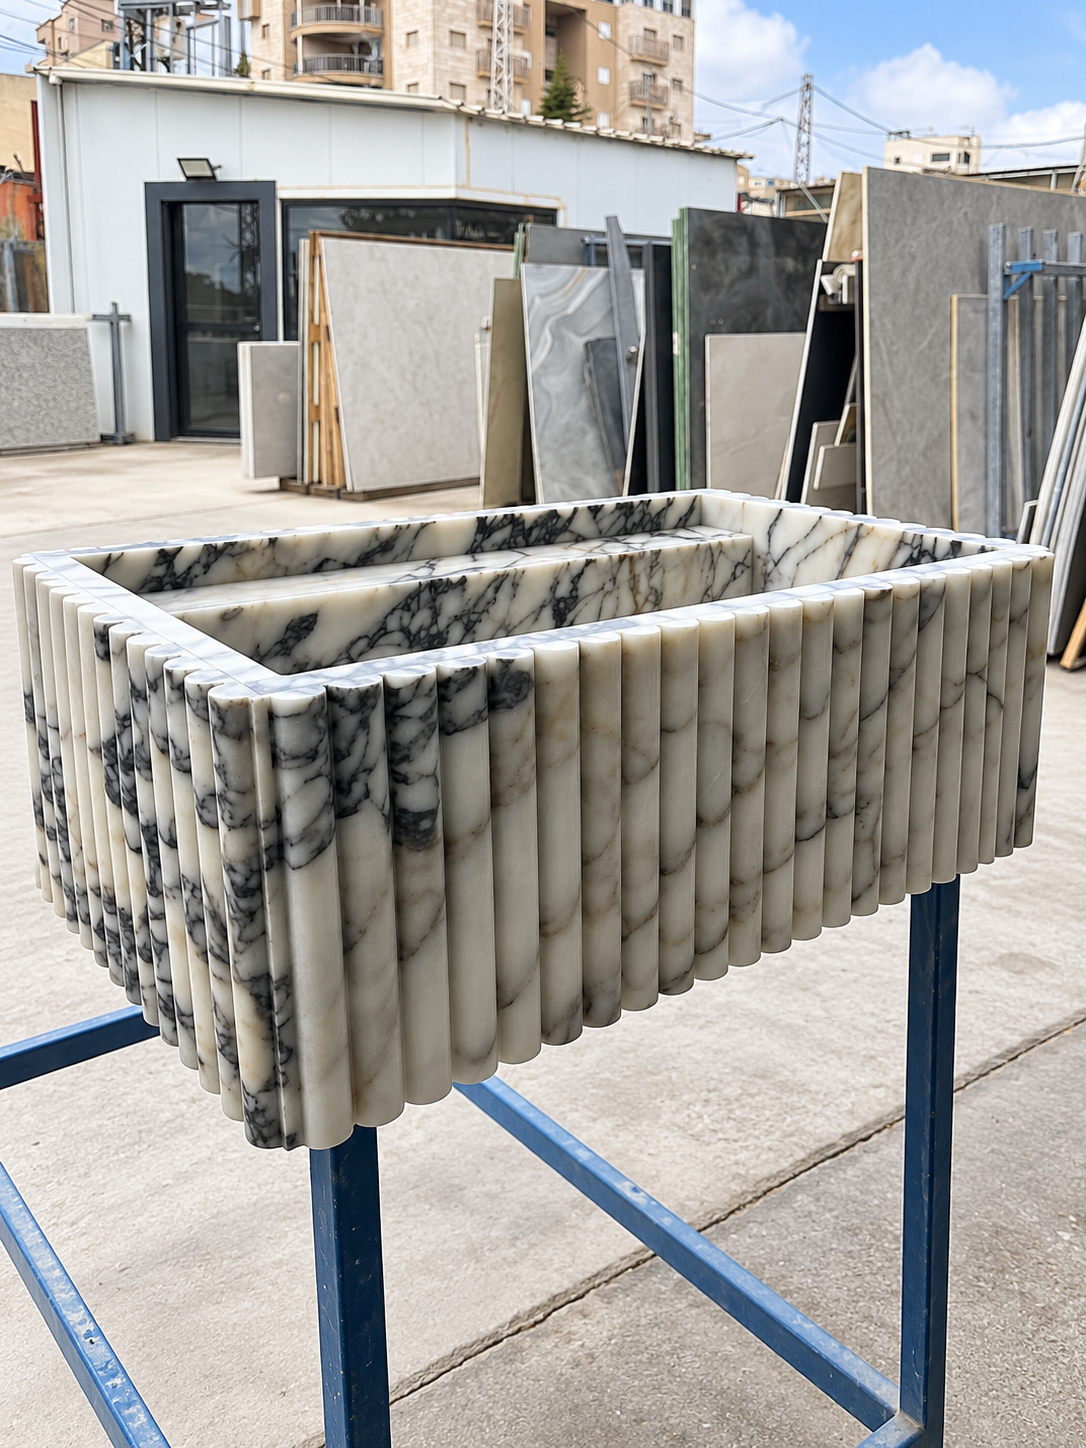
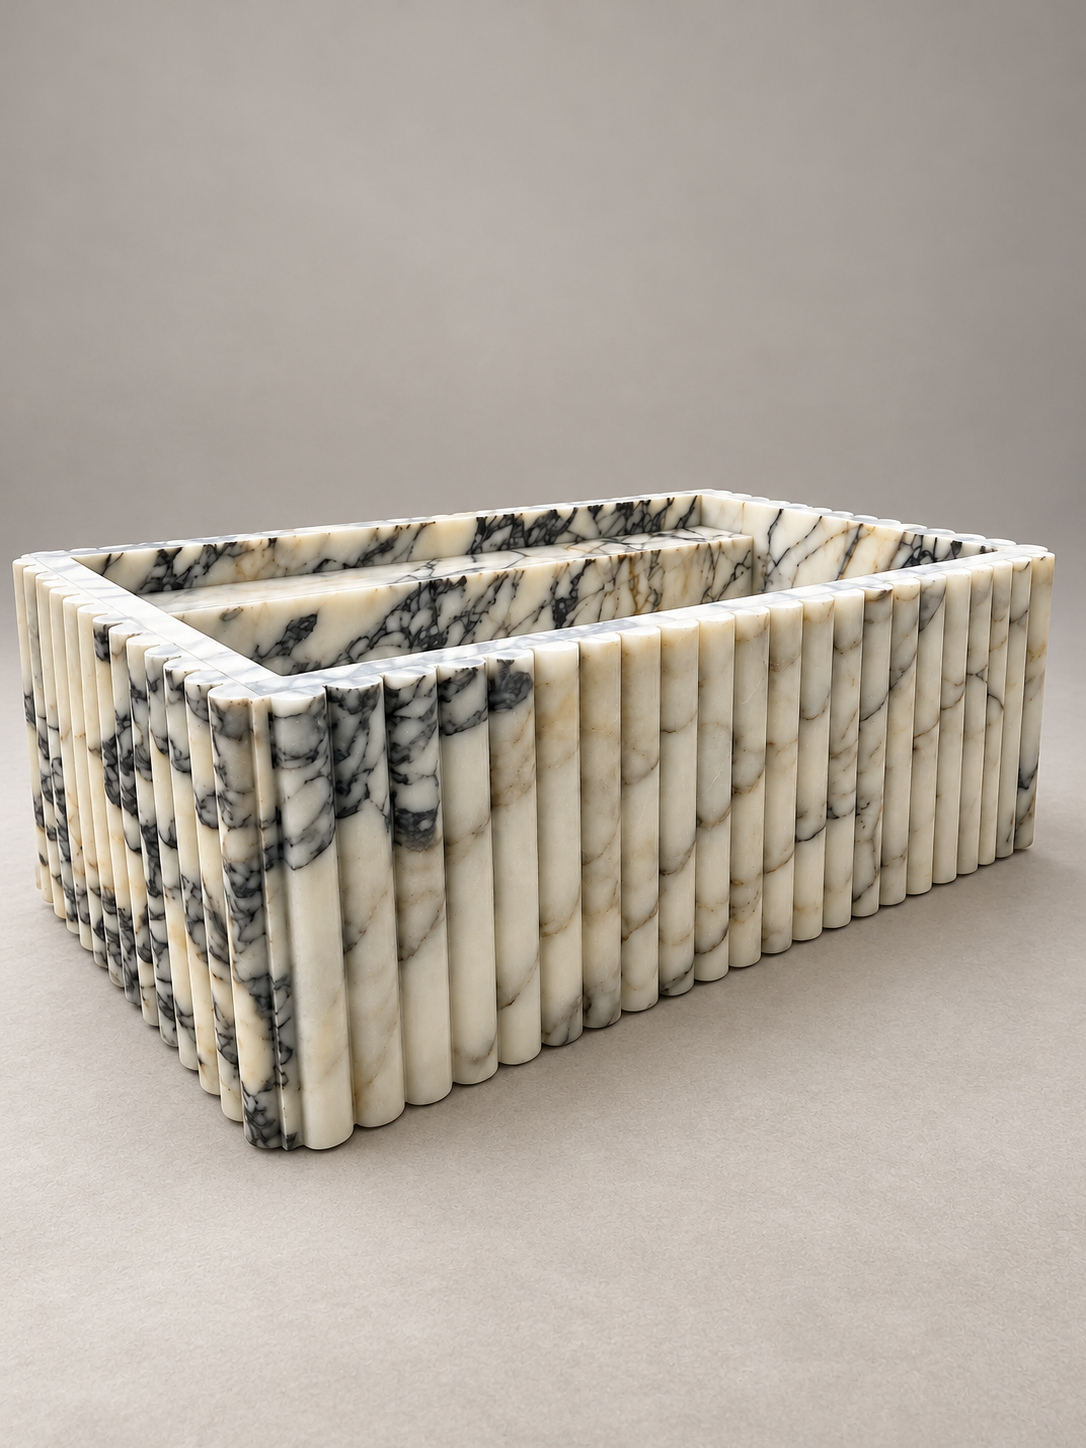
Reuse homepage slabs and remove basin workshop supports

diff --git a/lib/retouchedPhotos.ts b/lib/retouchedPhotos.ts
@@ -1,4 +1,6 @@
 import photoAssets from '../retouched-photo-assets.json' with { type: 'json' };
+import homePhotoAssets from '../public-photo-assets.json' with { type: 'json' };
+import slabSources from '../gallery-slab-sources.json' with { type: 'json' };
 
 export type RetouchedPhoto = {
   src: string;
@@ -9,8 +11,29 @@ export type RetouchedPhoto = {
 };
 
 const assets = photoAssets as Record<string, RetouchedPhoto>;
+const homePhotos = homePhotoAssets as Record<string, {
+  src: string; srcSet: string; width: number; height: number;
+}>;
 
-export const retouchedPhoto = (publicId: string): RetouchedPhoto | undefined => assets[publicId];
+// Share the homepage exports so future slab replacements reach every gallery size.
+const slabAssets: Record<string, RetouchedPhoto> = {};
+for (const [publicId, slabId] of Object.entries(slabSources)) {
+  const photo = homePhotos[`/stone-slabs/edited/${slabId}.jpeg`];
+  if (!photo) continue;
+  slabAssets[publicId] = {
+    src: photo.src,
+    width: photo.width,
+    height: photo.height,
+    editedWithAI: true,
+    variants: photo.srcSet.split(', ').map(entry => {
+      const [src, descriptor] = entry.split(' ');
+      const width = Number.parseInt(descriptor, 10);
+      return { src, width, height: Math.round(photo.height * width / photo.width) };
+    }),
+  };
+}
+
+export const retouchedPhoto = (publicId: string): RetouchedPhoto | undefined => slabAssets[publicId] || assets[publicId];
 
 /** Select real exported pixels; never advertise the original's larger size. */
 export function retouchedPhotoUrl(publicId: string, width: number): string | undefined {

diff --git a/docs/photo-quality.md b/docs/photo-quality.md
@@ -5,7 +5,8 @@ remove unrelated people, tools, packaging and installation debris, and improve
 framing, perspective and illumination. Two existing clean visualizations are
 retained. These are edited illustrations: reconstructed areas, stone patterns
 and other details can differ from the original photograph. The lightbox labels
-AI versions and always offers the original for direct comparison.
+AI versions. Original files are retained privately in the asset history; the
+public gallery has no original-photo comparison control.
 
 Retouches are exported to `public/photo-retouch-v2` with content fingerprints
 and actual width/height metadata in `retouched-photo-assets.json`. The gallery,
@@ -71,6 +72,29 @@ available detail; they do not recover information absent from a source.
 Existing PDF URLs are retained. The catalog identifies digital reconstructions.
 
 ## Validation
+
+### Gallery consistency update — 18 October 2026
+
+`gallery-slab-sources.json` maps all 15 existing slab gallery records to the
+13 approved homepage slabs. `retouchedPhotos.ts` resolves their thumbnail,
+responsive and lightbox variants directly from `public-photo-assets.json`.
+No duplicate slab uploads or new gallery records are created. The three
+existing views of the final white-and-gold slab share its approved image.
+
+Seven views of the fluted basin were edited with Imagegen to remove the blue
+metal workshop supports and surrounding worktables. Each preserves its own
+viewpoint and uses a neutral display surface with a contact shadow. These are
+AI-edited product illustrations, not additional photographs of an installation.
+The exact source/output associations and SHA-256 hashes are recorded in
+`gallery-sink-cleanup-20261018.json`. Existing originals remain unchanged.
+
+Imagegen prompt:
+
+> Edit this exact product photograph. Preserve the marble basin itself EXACTLY: identical rectangular geometry, precise camera angle and perspective, crop and size in frame, vertical rounded fluting count and shapes, thin rim, basin interior, raised inner ledge, drain opening if visible, and especially every existing white/ivory, black-gray and warm gold stone vein and its placement. Do not redesign, recolor, smooth out or regenerate the sink pattern. Remove ALL blue metal workstands, supporting legs, crossbars and wooden rails, including background worktables. Replace only the surrounding workshop/yard with a clean warm light-gray studio backdrop and a plain matte neutral display surface directly beneath the basin. The basin must rest physically on this continuous surface with a small soft contact shadow, not float. No visible stand, legs, frames, cabinets, faucets, accessories or signage. Keep the entire sink visible with all its bottom fluted edges. Photorealistic premium product photography, softly lit to match the source, natural stone texture, crisp detail. Preserve original portrait aspect ratio. No text.
+
+The seven basin JPEGs in `catalog/enhanced` use the same new edits, and its
+13 slab JPEGs are exact copies of `public/stone-slabs/edited`. Rebuild and review
+both catalog PDF URLs and the preview pages when publishing these sources.
 
 ```sh
 npm run typecheck
